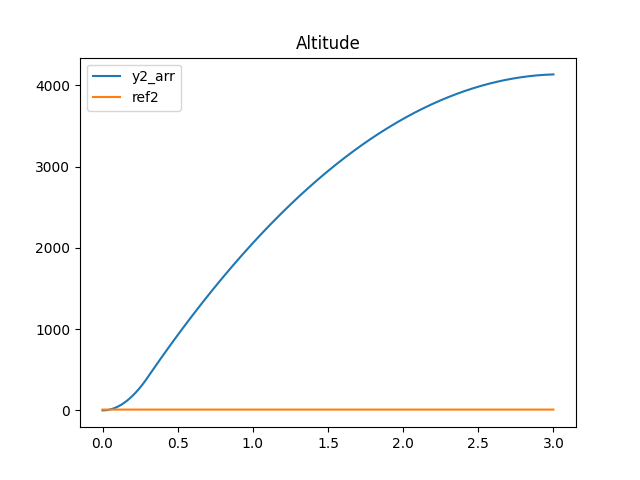
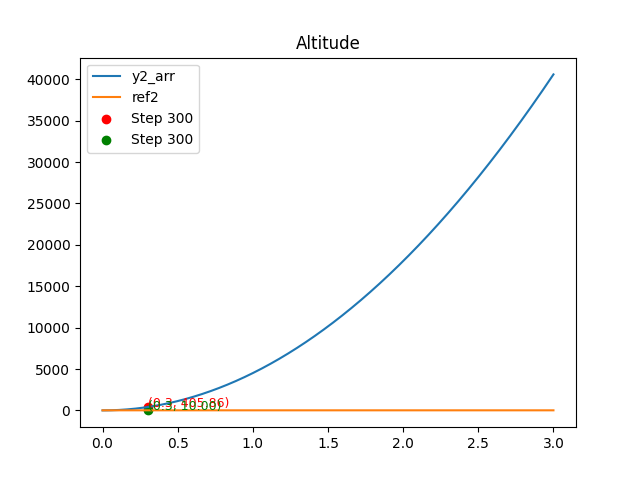
jialiang: update quad_delay attack

diff --git a/src/examples/quad_actuator_delay.py b/src/examples/quad_actuator_delay.py
@@ -199,14 +199,8 @@ if __name__ == "__main__":
     for i in range(0, max_index + 1):
         assert ip.cur_index == i
         ip.update_current_ref(ref[i])
-        # attack here
-        # ip state record the sensor data
         u = delay_attack.launch(ip.cur_u, ip.cur_index, ip.inputs)
-        print('this is u', u)
-        # attacked signal
         ip.evolve(u=u)
-        # ip.cur_feedback = delay_attack.launch(ip.cur_feedback, ip.cur_index, ip.states)
-        # print('current input', ip.cur_u)
     # 定义数据
     t_arr = np.linspace(0, 3, max_index + 1)
     ref2 = [x[-4] for x in ip.refs[:max_index + 1]]
@@ -216,19 +210,37 @@ if __name__ == "__main__":
     import matplotlib.pyplot as plt
     import numpy as np
 
+    # 第300步的数据点
+    step = 300
+    t_step = t_arr[step]
+    u_step = u_arr[step]
+    y2_step = y2_arr[step]
+    ref2_step = ref2[step]
     # 第一个图
     fig1, ax1 = plt.subplots()
     ax1.set_title('Altitude')
     ax1.plot(t_arr, y2_arr, label='y2_arr')
     ax1.plot(t_arr, ref2, label='ref2')
+
+    ax1.scatter(t_step, y2_step, color='red', label=f'Step {step}')
+    ax1.text(t_step, y2_step, f'({t_step}, {y2_step:.2f})', fontsize=9, color='red', ha='left')
+
+    ax1.scatter(t_step, ref2_step, color='green', label=f'Step {step}')
+    ax1.text(t_step, ref2_step, f'({t_step}, {ref2_step:.2f})', fontsize=9, color='green', ha='left')
     ax1.legend()
     plt.savefig('quadrotor-altitude-delay.png')
     plt.show()
 
-    # 第二个图
+    # 绘图
     fig2, ax2 = plt.subplots()
     ax2.set_title('u-force')
     ax2.plot(t_arr, u_arr, label='u_arr')
+
+    # 标记第300步的点
+    ax2.scatter(t_step, u_step, color='red', label=f'Step {step}')
+    ax2.text(t_step, u_step, f'({t_step}, {u_step:.2f})', fontsize=9, color='red', ha='left')
+    # 添加图例
     ax2.legend()
+    # 保存和展示
     plt.savefig('quadrotor-uforce-delay.png')
     plt.show()

diff --git a/src/cpsim/actuator_attack.py b/src/cpsim/actuator_attack.py
@@ -31,9 +31,11 @@ class ActuatorAttack:
         if self.cat == 'delay':
             # param is the number of delay steps
             if self.cur_index - self.start_index > self.param:
+                print('delay attack used steps', self.cur_index - self.param, 'data of used steps',
+                      history_intact_data[self.cur_index - self.param])
                 return history_intact_data[self.cur_index - self.param]
             else:
-                return history_intact_data[self.start_index]
+                return history_intact_data[self.start_index-1]
         if self.cat == 'replay':
             # replay interval param['start'] ~ param['end']
             delta_index = self.cur_index - self.start_index
